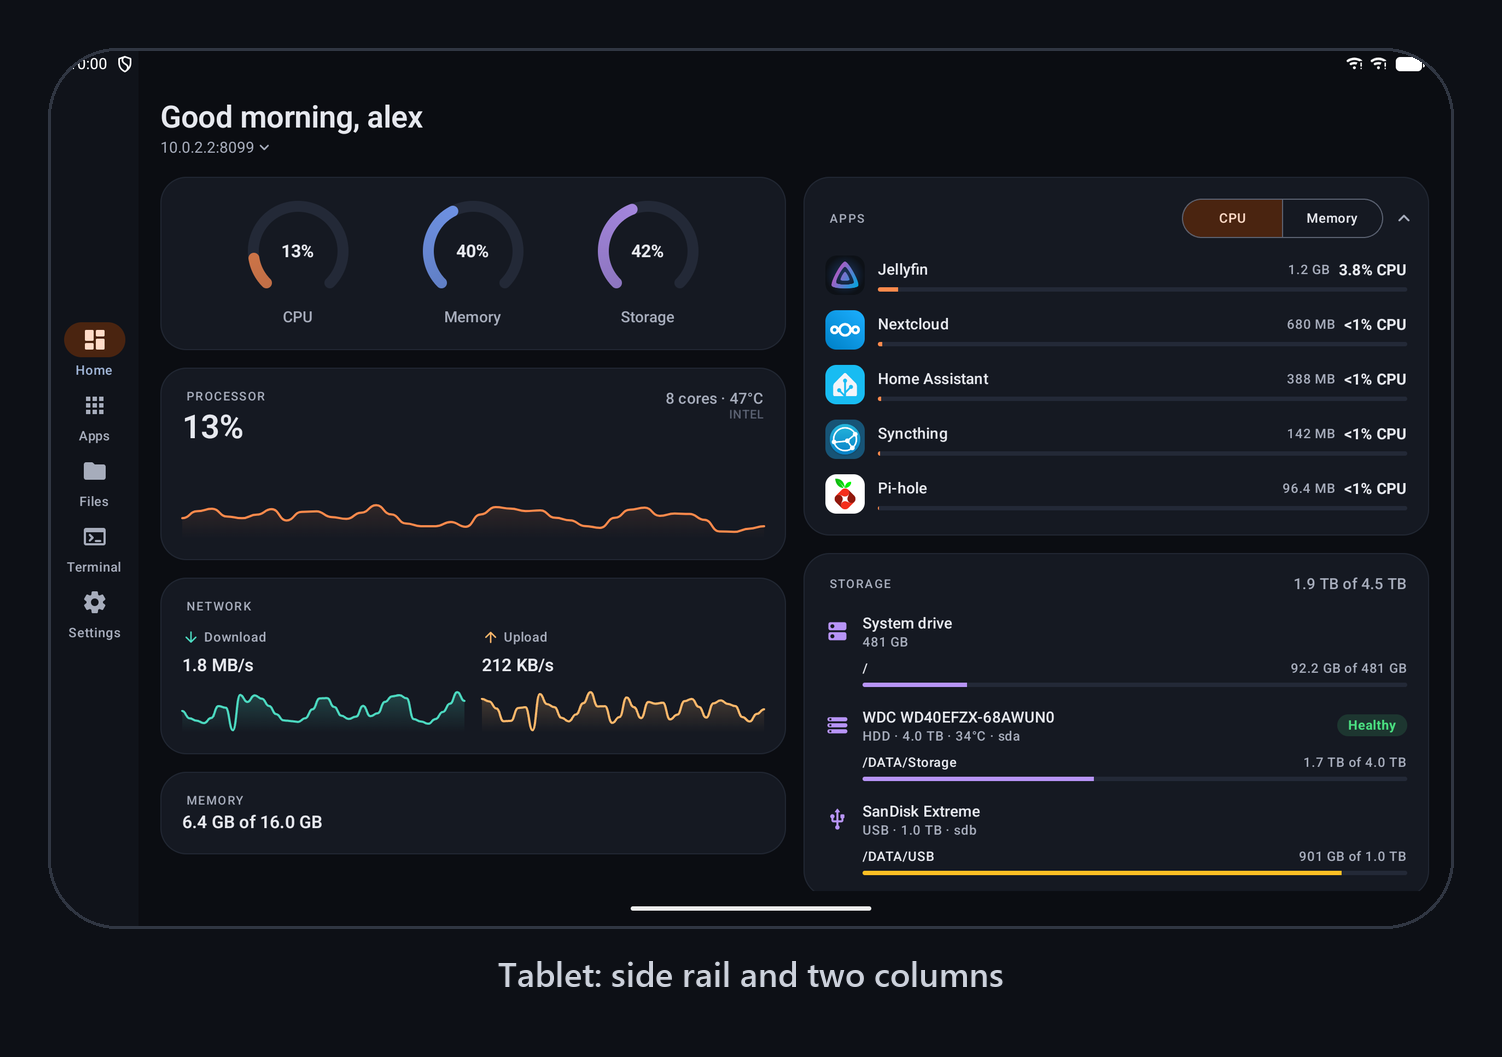
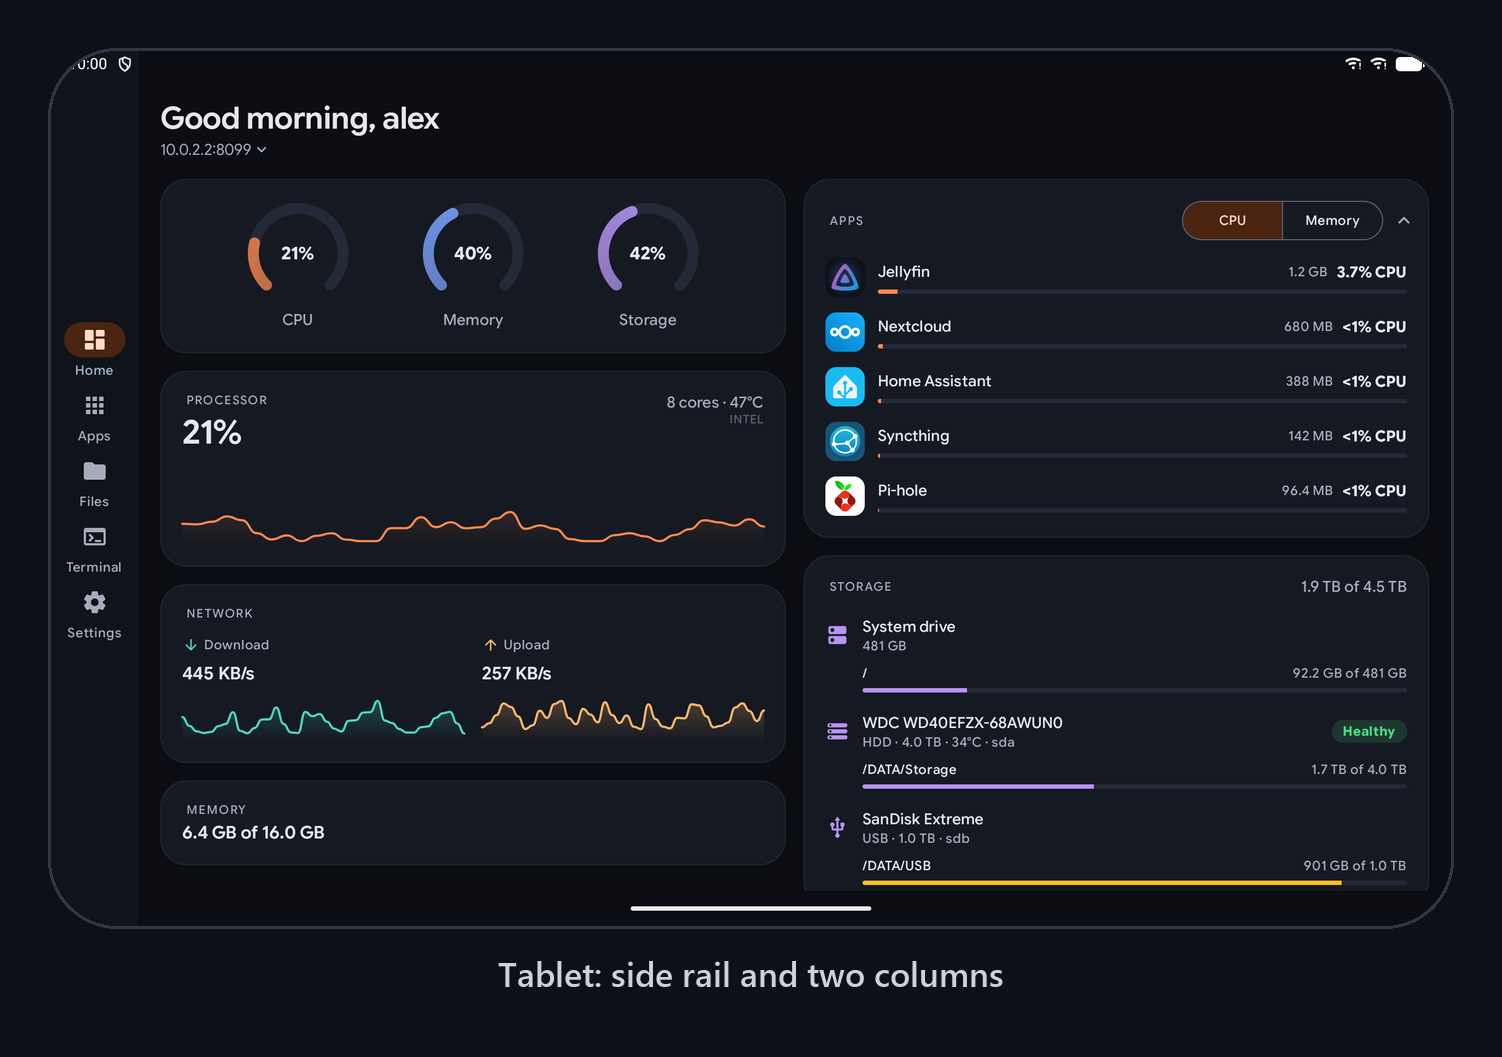
Refresh screenshots, update docs and leave release builds unsigned without a key (#42)
- New screenshots for the README and the F-Droid listing, taken with the 1.0.0 UI
  (Google Sans Flex, grayed-out stopped apps, the new alert wording). The store
  screenshots are now full-size phone captures (1080x2400) and a 1920x1200 tablet
  capture instead of small crops of the README images.
- Release builds without the signing key are now unsigned instead of debug-signed,
  which is what F-Droid's build server expects.
- Docs: grayed-out stopped apps, the SSH server note, the reworded offline alert,
  the font and its license, and how release builds are signed.

diff --git a/docs/how-it-works.md b/docs/how-it-works.md
@@ -27,7 +27,7 @@ Hearth runs on Android 10 or later, phones and tablets.
 
 ### Apps
 
-- Lists installed apps with their status. Each app can be started, stopped or restarted, and you can open its web UI or view its logs. Search filters the list. Apps with several containers get a chip per container.
+- Lists installed apps with their status. Stopped apps are grayed out. Each app can be started, stopped or restarted, and you can open its web UI or view its logs. Search filters the list. Apps with several containers get a chip per container.
 - **Logs** opens an app's container logs full screen. They update every 3 seconds while the page is open (pause to read), and reach back 500, 2,000 or 10,000 lines. Search shows only the lines that match. Copy puts them on the clipboard (the newest 300,000 characters if there are more), and Share sends them as a text file. Terminal color codes are removed.
 - **Open:** the app's web UI opens inside Hearth or in your browser, depending on the choice in Settings.
 - **Settings** (next to Logs) shows the same container settings as the CasaOS dashboard: image and tag, name, icon, web UI address, network, ports, volumes, environment variables, devices, command, privileged mode, memory limit, CPU shares, restart policy and capabilities. Passwords stay hidden until you tap them. The pencil edits these settings in a form, and **Edit as YAML** in the menu edits the whole compose file. CasaOS checks your changes before saving (including ports already in use), then restarts the app with them.
@@ -47,7 +47,8 @@ Hearth runs on Android 10 or later, phones and tablets.
 
 ### Terminal
 
-- A shell on the server over SSH. It has color, scrollback (drag), pinch-to-zoom text, paste and a row of extra keys (Ctrl, Alt, Esc, Tab, arrows…).
+- A shell on the server over SSH. Most CasaOS installs already run an SSH server. If connecting fails, install one on the server with `sudo apt install openssh-server`.
+- The terminal has color, scrollback (drag), pinch-to-zoom text, paste and a row of extra keys (Ctrl, Alt, Esc, Tab, arrows…).
 - **Update server** runs `sudo apt update && sudo apt upgrade -y` in one tap.
 - The session keeps running while you switch tabs.
 
@@ -55,7 +56,7 @@ Hearth runs on Android 10 or later, phones and tablets.
 
 - Off until you turn on **Alerts** in Settings. On Android 13 and later, turning them on asks for permission to show notifications. Each kind can be turned off on its own, there or in Android's notification settings.
 - Hearth checks every server you're signed in to about every 15 minutes, even when it's closed, as long as the phone has a network connection. Android may check less often to save battery.
-- **Server offline**: after two checks in a row fail, so one dropped request doesn't alert. That includes when your phone is away from the network the server is on. When the server answers again, the alert changes to "back online" and goes away after an hour.
+- **Server offline**: after two checks in a row fail, so one dropped request doesn't alert. That includes when your phone is off the server's network. When the server answers again, the alert changes to "back online" and goes away after an hour.
 - **Storage almost full**: when total storage or a drive's volume reaches 90%. It alerts again only after dropping below 85%. Each drive's volumes are read at most every 6 hours, since that makes CasaOS run `smartctl`, which can wake sleeping disks. The total is checked every time.
 - **App stopped**: when an app that was running is found stopped, or is still restarting at the next check (it keeps crashing). Stopping, restarting, updating or changing an app's settings from Hearth doesn't count for the next hour. Stopping it from the CasaOS dashboard does. Apps already stopped when alerts are turned on aren't reported.
 - **App updates**: once for each new update, grouped into one notification.
@@ -82,6 +83,7 @@ Hearth runs on Android 10 or later, phones and tablets.
 - Six accents: Ember, Ocean, Forest, Violet, Rose, and Dynamic, which uses your wallpaper colors on Android 12+.
 - A pure black mode for OLED screens.
 - The choice is remembered and survives sign-out.
+- Text uses [Google Sans Flex](https://github.com/googlefonts/googlesans-flex), shipped with the app under the SIL Open Font License 1.1 ([`fonts/GoogleSansFlex-OFL.txt`](../fonts/GoogleSansFlex-OFL.txt)). Monospace text and the widget use the phone's fonts.
 
 ### Tablets and landscape
 
@@ -143,6 +145,10 @@ If `java` isn't on your PATH, point `JAVA_HOME` at Android Studio's bundled JDK,
 On Windows cmd or PowerShell, use `gradlew.bat` instead of `./gradlew`.
 
 If the headless emulator crashes with the default software renderer, start it with `-gpu host`.
+
+`./gradlew :app:assembleRelease` makes a shrunk release build. It's signed only if the `hearth.signing` Gradle property (for example in `~/.gradle/gradle.properties`) or the `HEARTH_SIGNING` environment variable points at a `keystore.properties` file with `storeFile`, `storePassword`, `keyAlias` and `keyPassword`. Otherwise the APK is left unsigned, which is how F-Droid builds it before signing it with its own key. The key and its properties file stay outside the repo.
+
+The store listing (descriptions, changelogs, icon and screenshots) is in `fastlane/metadata/android/en-US/`. Each release adds `changelogs/<versionCode>.txt`.
 
 ## Code layout
 

diff --git a/README.md b/README.md
@@ -54,4 +54,4 @@ Hearth is an unofficial app and isn't affiliated with CasaOS or IceWhale.
 
 ## License
 
-Hearth is released under the [MIT License](LICENSE).
+Hearth is released under the [MIT License](LICENSE). It ships the Google Sans Flex font, which is under the [SIL Open Font License 1.1](fonts/GoogleSansFlex-OFL.txt).
